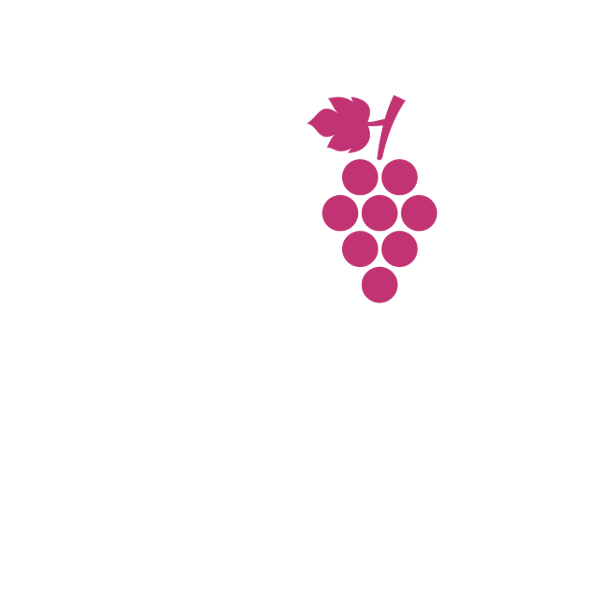
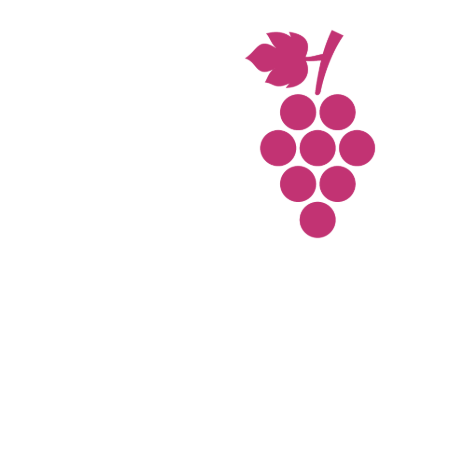
cambios fuentes, imagenes

Changed region(s): [[0.5075, 0.0597, 0.806, 0.5075]]

diff --git a/src/style/screensStyle/_CardProjects.scss b/src/style/screensStyle/_CardProjects.scss
@@ -11,13 +11,12 @@
     h1{
         text-align: center;
         margin: 0 auto;
-        padding: 40px 0;
+        padding: 10px 0;
         font-family:$titleFont;
-        color: $red;
         text-transform: uppercase;
         letter-spacing: 6px;
-        font-weight: 500;
-        font-size: 2rem;
+        font-weight: 600;
+        font-size: 2.5rem;
     }
  }
  .divPoject{
@@ -39,18 +38,6 @@
       font-size: 1.5rem;
     }
  }
- 
-
-
-//  #light .card {
-//   background-color: rgb(255 255 255 / 91%);
-//   border-bottom: 2px solid $violet;
-//  }
- 
-
-
- .material-icons.md-36 { font-size: 36px; }
- 
  
 
  
@@ -95,47 +82,31 @@
  
    .text {
      margin: 0 auto;
-     font-size: 16px;
+     font-size: 1rem;
      text-align: center;
-     margin-top: 20px;
-     color: black; //Cambiar
-     font-weight: 700;
+     color: $red; //Cambiar
+     font-weight: 500;
      letter-spacing: 1px;
      opacity: 0;
      max-height: 0;
      transition: all 0.3s ease;
      font-family: $fontGeneric;
    }
- 
-   .textTechnologies {
-     width: 100%;
-     margin: 0 auto;
-     text-align: center;
-     font-size: 13px;
-     margin-top: 20px;
-     color: $violet;
-     font-weight: 500;
-     letter-spacing: 2px;
-     opacity: 0;
-     max-height: 0;
-     font-family: $fontGeneric;
-     transition: all 0.3s ease;
-   }
+
  
    .icon {
      margin: 0 auto;
      width: 100%;
-     height: 80px;
      max-width: 80px;
-     background: linear-gradient(100deg, rgba(255, 127, 41, 0.671) 3%, #ff40ef 40%, rgba(231, 0, 189, 0.466) 80%);
-     border-radius: 100%;
      display: flex;
      justify-content: center;
      align-items: center;
      color: white;
      transition: all 0.8s ease;
-     background-position: 0px;
-     background-size: 200px;
+     img{
+      margin-bottom: 10px;
+     }
+
    }
  
    &:hover {
@@ -144,7 +115,6 @@
      .title,
      .text,
      .textTechnologies,
-     .Unlimited,
      .animate{
        transition: all 0.3s ease;
        opacity: 1;
@@ -171,8 +141,7 @@
       height: 270px;
    
       .text,
-      .textTechnologies,
-      .Unlimited {
+      .textTechnologies {
         transition: all 0.5s ease;
         opacity: 1;
         max-height: 40px;

diff --git a/src/screens/Work.jsx b/src/screens/Work.jsx
@@ -4,6 +4,10 @@ import uvaB from "/uvaB.png"
 import uvaV from "/uvaV.png"
 import uvaA from "/uvaA.png"
 import uvaN from "/uvaN.png"
+import uvaD from "/uvaDegrade0.png"
+import uvaD1 from "/uvaDegrade01.png"
+import uvaD2 from "/uvaDegrade02.png"
+import uvaD3 from "/uvaDegrade03.png"
 import { Button } from '../components/Button'
 import { ThemeContext } from '../App'
 
@@ -14,16 +18,18 @@ export const Work = () => {
   return (
     <section className='work-section'>
         <div className='div-work-text'>
+          <div>
             <h4 className='work-h4'>
-                Nosotros
-            </h4>
-            <p className='work-p'>
-            Lorem ipsum dolor sit amet consectetur adipisicing elit. Excepturi a hic dolorum perspiciatis voluptatibus tenetur suscipit consequuntur animi laborum explicabo, minus blanditiis quibusdam vitae! Aliquid omnis alias necessitatibus ab ipsa!
-            </p>
+                  Nosotros
+              </h4>
+              <p className='work-p'>
+              Lorem ipsum dolor sit amet consectetur adipisicing elit. Excepturi a hic dolorum perspiciatis voluptatibus tenetur suscipit consequuntur animi laborum explicabo, minus blanditiis quibusdam vitae! Aliquid omnis alias necessitatibus ab ipsa!
+              </p>
+          </div>  
             <Button text='Contactanos' className='yellow'/>
         </div>
         <div>
-        {theme === 'dark' ? <img  src={uvaB} alt='imagen central' /> : <img  src={uvaV} alt='imagen central' /> }
+        {theme === 'dark' ? <img  src={uvaD3} alt='imagen central' /> : <img  src={uvaD} alt='imagen central' /> }
         </div>
     </section>
 

diff --git a/src/style/screensStyle/_home.scss b/src/style/screensStyle/_home.scss
@@ -30,11 +30,11 @@ h3{
 
 
 h2{
-    font-weight: 500;
+    font-weight: 600;
     letter-spacing: 6px;
     font-family: $titleFont; //cambiar
     line-height: 60px;
-    font-size: 2rem;
+    font-size: 2.5rem;
     text-align: left;
 }
 
@@ -50,13 +50,15 @@ h2{
         flex-direction: column;
         align-items: flex-start;
         justify-content: space-evenly;
-
+        div{
+            margin-bottom: 30px;
+        }
     }
     .divImg{
         flex: 1;
         padding: 0 10px;
         img{
-            width: 100%; /* La imagen ocupará el 100% del ancho de su contenedor */
+            width: 100%; 
             height: auto; 
         }
     }

diff --git a/src/style/screensStyle/_projects.scss b/src/style/screensStyle/_projects.scss
@@ -9,9 +9,6 @@
     width: 90%;
     display: flex;
 }
-.unLimited {
-    height: 300px;
-    border-radius: 8px; }
 
 
  .cardBox {
@@ -26,8 +23,6 @@
 
  .card {
     position: absolute;
-    width: 97%;
-    height: 97%;
     background-color: #000000;
     border-radius: 20px;
     z-index: 5;
@@ -43,7 +38,7 @@
 
 
   .card .content p {
-    font-size: 1.6rem;
+    font-size: 1rem;
     line-height: 25px;
     letter-spacing: 6px;
     font-weight: 500;

diff --git a/src/components/CardProjects.jsx b/src/components/CardProjects.jsx
@@ -27,7 +27,6 @@ export const CardProjects = () => {
             <p className="title">{project.project}</p>
             <p className="text">{t(`proyectos.${project.description}`)} </p>
             {project.video ? <p className="text"> <a className='Unlimited ' href="https://ibb.co/zFcrZTD">LINK</a></p> : null}
-            <p className="textTechnologies">{project.technologies}</p>
           </a>
         </div>
       ))}

diff --git a/src/style/screensStyle/_work.scss b/src/style/screensStyle/_work.scss
@@ -26,7 +26,7 @@
         font-family: $titleFont;
         font-weight: 600;
         line-height: 60px;
-        font-size: 2rem;
+        font-size: 2.5rem;
         letter-spacing: 6px;
     }
     p{
@@ -35,6 +35,9 @@
         line-height: 50px;
         font-size: 1.5rem;
         letter-spacing: 6px;
+    }
+    div{
+        margin-bottom: 30px;
     }
 }
 

diff --git a/src/style/styles.scss b/src/style/styles.scss
@@ -117,6 +117,7 @@ background-color: $backgoundLight;
       border-radius: 50px;
       padding: 15px;
       font-size: 2rem;
+      font-weight: 600;
       font-family: $fontButton;
       border: 0;
       color: $white;

diff --git a/src/style/screensStyle/_Services.scss b/src/style/screensStyle/_Services.scss
@@ -11,7 +11,7 @@
         font-family: $titleFont;
         letter-spacing: 6px;
         font-weight: 600;
-        font-size: 2rem;
+        font-size: 2.5rem;
         line-height: 50px;
     }
     & h3, h4 {
